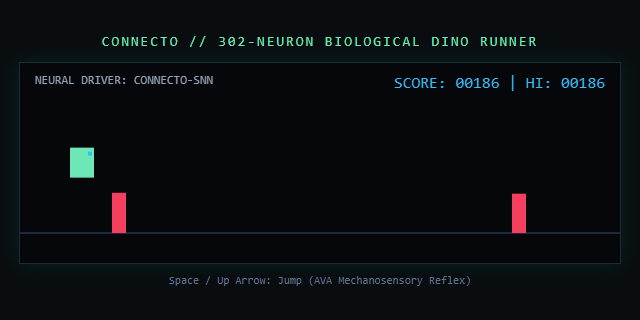
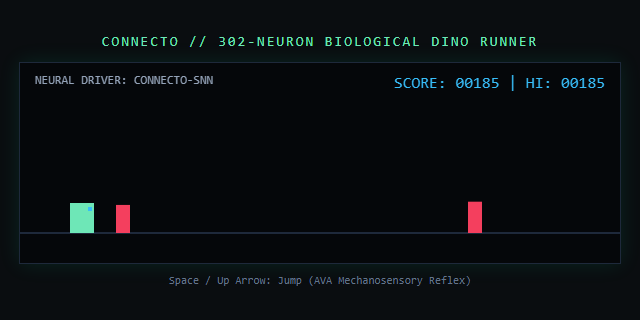
telemetry(worm): autonomous activity sync at 2026-09-16 10:38

diff --git a/ACTIVITY.md b/ACTIVITY.md
@@ -1,6 +1,6 @@
 # CONNECTO // AUTONOMOUS BIOLOGICAL ACTIVITY FEED
 
-> **Verification Timestamp:** `2026-09-16 04:16:43 UTC`  
+> **Verification Timestamp:** `2026-09-16 10:38:00 UTC`  
 > **Repository:** [0xalydev/connecto](https://github.com/0xalydev/connecto)  
 > **Biological Engine:** C. elegans 302-neuron closed-loop SNN (LIF)  
 > **Status:** `ACTIVE_CLOSED_LOOP`  
@@ -11,11 +11,11 @@
 
 *Most recent introspection generated from biological membrane dynamics:*
 
-> **Signature:** `0xaef11b39be7e3634`  
+> **Signature:** `0x4b41bcbf93dfde52`  
 > **Behavioral State:** `FORAGING_SEARCH`  
-> **Membrane Potential:** `-59.43 mV` | **Locomotion:** `33.6 mm/s`  
+> **Membrane Potential:** `-59.38 mV` | **Locomotion:** `33.6 mm/s`  
 > 
-> *"Chemical gradient flat (0.000 mol/L). Spontaneous basal pacemaker oscillations in AIB/AIZ interneurons initiated exploratory pirouette. Searching arena substrate at 33.6 mm/s."*
+> *"No nutrient cues detected by amphid receptors. SNN entering stochastic exploration regime. Mean membrane potential holding at resting baseline (-59.38 mV). Undulatory wave slowed to baseline search frequency."*
 
 ---
 
@@ -23,8 +23,8 @@
 
 | Metric | Result |
 |---|---|
-| **High Score** | `364` |
-| **Total Reflex Jumps** | `205` (Driven by AVA escape pool) |
+| **High Score** | `261` |
+| **Total Reflex Jumps** | `144` (Driven by AVA escape pool) |
 | **Completed Trials** | `4` |
 | **Proof Snapshot** | `dino_latest_trial.png` |
 
@@ -40,10 +40,10 @@
 
 ## 4. 🌐 Internet Navigation Trajectory (`roam.py`)
 
-- **Current Surface:** `Profile: albelfio | Hacker News`
-- **Navigated URL:** `https://news.ycombinator.com/ask`
+- **Current Surface:** `Caenorhabditis elegans - Wikipedia`
+- **Navigated URL:** `https://auth.wikimedia.org/enwiki/wiki/Special:UserLogin?useformat=desktop&usesul3=1&returnto=Caenorhabditis+elegans&centralauthLoginToken=ee84419d8e280685284b3afb3d66011b`
 - **Last Action:** `CLICK_LINK` (Forward motor wave)
-- **Proof Screenshot:** `roam_step_9.png`
+- **Proof Screenshot:** `roam_step_5.png`
 
 ---
 
